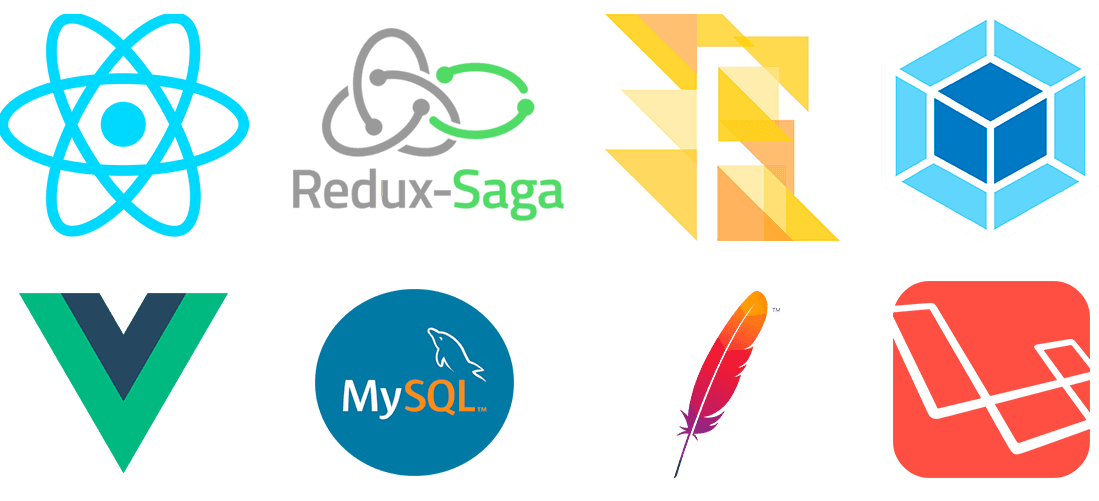
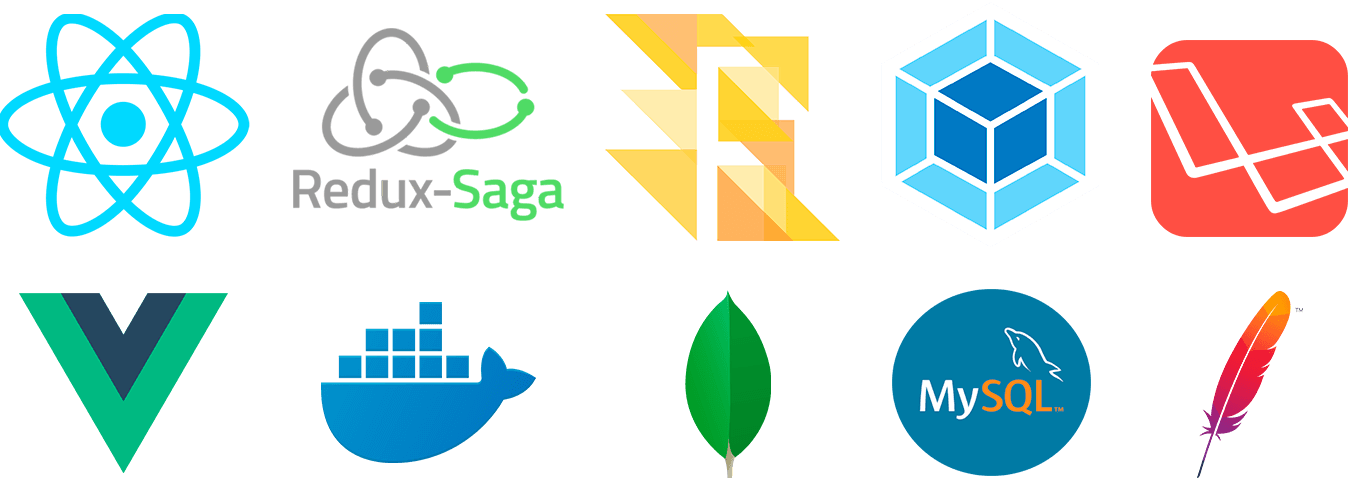
Updated skills.

diff --git a/resources/assets/js/constants/skillList.js b/resources/assets/js/constants/skillList.js
@@ -36,8 +36,12 @@ const skillList = [
     alt: 'Redux-Thunk',
   },
   {
-    src: `${imgPathFront}jquery.png`,
-    alt: 'jQuery',
+    src: `${imgPathFront}mobx.png`,
+    alt: 'MobX',
+  },
+  {
+    src: `${imgPathFront}graphql.jpeg`,
+    alt: 'GraphQL',
   },
   {
     src: `${imgPathFront}next.svg`,
@@ -48,16 +52,44 @@ const skillList = [
     alt: 'React Native',
   },
   {
+    src: `${imgPathFront}vue.png`,
+    alt: 'Vue.js',
+  },
+  {
+    src: `${imgPathFront}nuxt.png`,
+    alt: 'Nuxt.js',
+  },
+  {
+    src: `${imgPathFront}vuex.png`,
+    alt: 'Vuex',
+  },
+  {
+    src: `${imgPathFront}rxjs.png`,
+    alt: 'RxJS',
+  },
+  {
+    src: `${imgPathFront}jquery.png`,
+    alt: 'jQuery',
+  },
+  {
     src: `${imgPathFront}flow.png`,
     alt: 'Flow',
+  },
+  {
+    src: `${imgPathFront}pug.png`,
+    alt: 'Pug',
   },
   {
     src: `${imgPathFront}bootstrap.png`,
     alt: 'Bootstrap',
   },
   {
-    src: `${imgPathFront}pug.png`,
-    alt: 'Pug',
+    src: `${imgPathFront}materialize.svg`,
+    alt: 'Materialize',
+  },
+  {
+    src: `${imgPathFront}tailwind.png`,
+    alt: 'Tailwind CSS',
   },
   {
     src: `${imgPathFront}sass.png`,
@@ -68,12 +100,24 @@ const skillList = [
     alt: 'Leaner Style Sheets',
   },
   {
+    src: `${imgPathFront}postCSS.png`,
+    alt: 'PostCSS',
+  },
+  {
+    src: `${imgPathFront}stylus.svg`,
+    alt: 'Stylus',
+  },
+  {
     src: `${imgPathFront}webpack.png`,
     alt: 'Webpack',
   },
   {
     src: `${imgPathFront}gulp.svg`,
     alt: 'Gulp',
+  },
+  {
+    src: `${imgPathFront}parcel.png`,
+    alt: 'Parcel.js',
   },
   {
     src: `${imgPathFront}npm.png`,
@@ -100,6 +144,14 @@ const skillList = [
     alt: 'Cypress',
   },
   {
+    src: `${imgPathFront}mocha.png`,
+    alt: 'Mocha',
+  },
+  {
+    src: `${imgPathFront}karma.png`,
+    alt: 'Karma',
+  },
+  {
     src: `${imgPathFront}pwa.png`,
     alt: 'Progressive Web Applications',
   },
@@ -114,10 +166,6 @@ const skillList = [
   {
     src: `${imgPathFront}prettier.png`,
     alt: 'Prettier',
-  },
-  {
-    src: `${imgPathFront}postCSS.png`,
-    alt: 'PostCSS',
   },
   {
     src: `${imgPathFront}styled-components.png`,
@@ -164,44 +212,16 @@ const skillList = [
     alt: 'Linux',
   },
   {
-    src: `${imgPathOther}jira.png`,
-    alt: 'Jira',
-  },
-  {
-    src: `${imgPathOther}figma.png`,
-    alt: 'Figma',
-  },
-  {
-    src: `${imgPathOther}principle.svg`,
-    alt: 'Principle',
-  },
-  {
-    src: `${imgPathOther}sketch.png`,
-    alt: 'Sketch',
-  },
-  {
-    src: `${imgPathOther}adobe_photoshop.png`,
-    alt: 'Adobe Photoshop',
-  },
-  {
-    src: `${imgPathOther}adobe_in_design.png`,
-    alt: 'Adobe InDesign',
-  },
-  {
-    src: `${imgPathOther}adobe_after_effects.png`,
-    alt: 'Adobe After Effects',
-  },
-  {
-    src: `${imgPathOther}webStorm.png`,
-    alt: 'WebStorm',
-  },
-  {
     src: `${imgPathBack}nodejs.png`,
     alt: 'Node.js',
   },
   {
     src: `${imgPathBack}php.png`,
     alt: 'Hypertext Preprocessor',
+  },
+  {
+    src: `${imgPathBack}laravel.png`,
+    alt: 'Laravel',
   },
   {
     src: `${imgPathBack}mysql.png`,
@@ -212,8 +232,8 @@ const skillList = [
     alt: 'PostgreSQL',
   },
   {
-    src: `${imgPathBack}laravel.png`,
-    alt: 'Laravel',
+    src: `${imgPathBack}mongo.png`,
+    alt: 'MongoDB',
   },
   {
     src: `${imgPathBack}nginx.png`,

diff --git a/resources/assets/js/components/Portfolio/sections/Linkful/Linkful.js b/resources/assets/js/components/Portfolio/sections/Linkful/Linkful.js
@@ -2,7 +2,6 @@ import React, { Component } from 'react';
 import { connect } from 'react-redux';
 import PropTypes from 'prop-types';
 
-import portfolioLinksList from '../../../../constants/portfolioLinksList';
 import URLS from '../../../../constants/urls';
 import { remove, setup } from './common/swirl';
 
@@ -49,7 +48,6 @@ class Linkful extends Component {
 
   render() {
     const { info } = this.state;
-    const { linkfulUrl } = portfolioLinksList;
 
     return (
       <div className="demo-2 linkful">
@@ -59,14 +57,10 @@ class Linkful extends Component {
           <div className="content content--canvas-linkful">
             <div className="linkful-container">
               <div className="header">
-                <a href={linkfulUrl} rel="noopener noreferrer" target="_blank">
-                  <div className="logo" />
-                </a>
+                <div className="logo" />
 
                 <div className="description">
-                  <a href={linkfulUrl} rel="noopener noreferrer" target="_blank">
-                    LINKFUL - A STUNNING WAY TO CREATE A&nbsp;PERFECT ABOUT&nbsp;ME PAGE!
-                  </a>
+                  <span>LINKFUL - A STUNNING WAY TO CREATE A&nbsp;PERFECT ABOUT&nbsp;ME PAGE!</span>
                 </div>
               </div>
 
@@ -77,24 +71,16 @@ class Linkful extends Component {
               </div>
 
               <div className={`info-container tzie-small ${info ? 'd-flex' : 'd-none'}`}>
-                I have created, designed and developed this project. I built the application using
+                I have created, designed, and developed this project. I built the application using
                 the most powerful and popular technologies. The frontend of the user dashboard was
-                built using React and Redux, and also used Saga to manage the asynchronous actions.
+                built using React and Redux and also used Saga to manage the asynchronous actions.
                 The administration panel is built with Laravel, and separate components with Vue
-                were also developed. The backend is based on Laravel, the Mysql database for storing
-                statistics. The system is fully tested.
+                were also developed. The backend is based on Laravel, the MySQL, and Mongo databases
+                for storing statistics. The system is fully tested. Infrastructure works on the
+                basis of Docker and Continues Delivery.
               </div>
 
               <div className={`arrow ${info ? 'arrow-up' : 'arrow-down'}`} onClick={this.toggle} />
-
-              <a
-                className="mt-50 description"
-                href={linkfulUrl}
-                rel="noopener noreferrer"
-                target="_blank"
-              >
-                CHECK IT OUT
-              </a>
             </div>
           </div>
         </section>

diff --git a/resources/assets/js/constants/portfolioLinksList.js b/resources/assets/js/constants/portfolioLinksList.js
@@ -3,7 +3,6 @@ const portfolioLinksList = {
   c2corner: 'https://c2corner.com/',
   arcbazar: 'https://www.arcbazar.com/',
   factoringvergelijken: 'https://factoringvergelijken.nl/',
-  linkfulUrl: 'https://linkful.me/',
   smsplaza: 'https://smsplaza.io',
 };
 

diff --git a/resources/assets/js/components/Portfolio/scss/sections/Neocore.scss b/resources/assets/js/components/Portfolio/scss/sections/Neocore.scss
@@ -158,11 +158,7 @@ $secondColor: #000;
     }
 
     .row {
-      width: 30px !important;
-
-      div {
-        background-image: url('#{$img-path}/neocore/neocore_skills_sm.png') !important;
-      }
+      width: 300px !important;
     }
   }
 }
